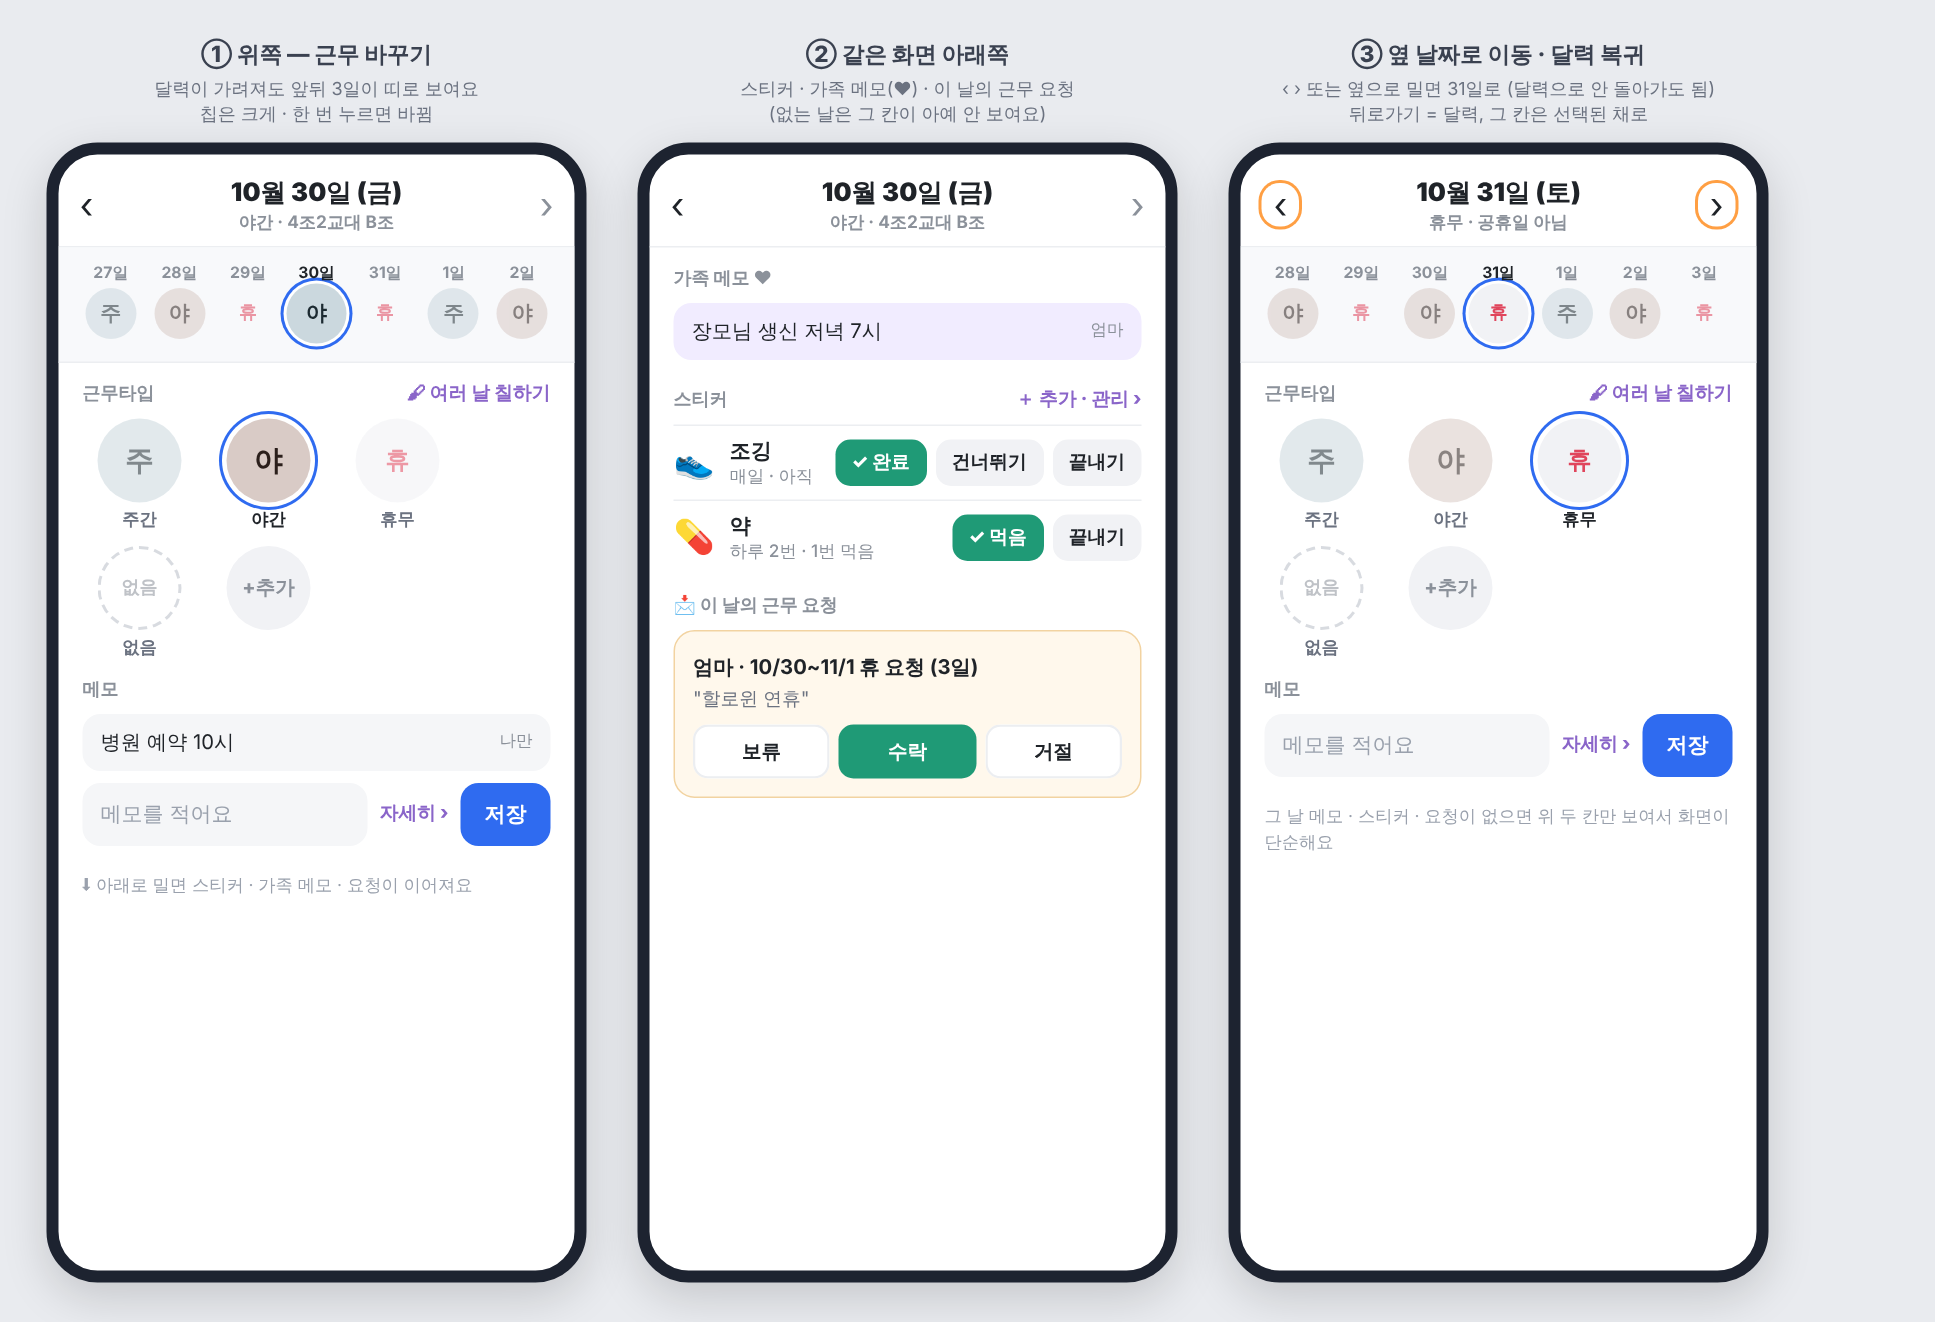
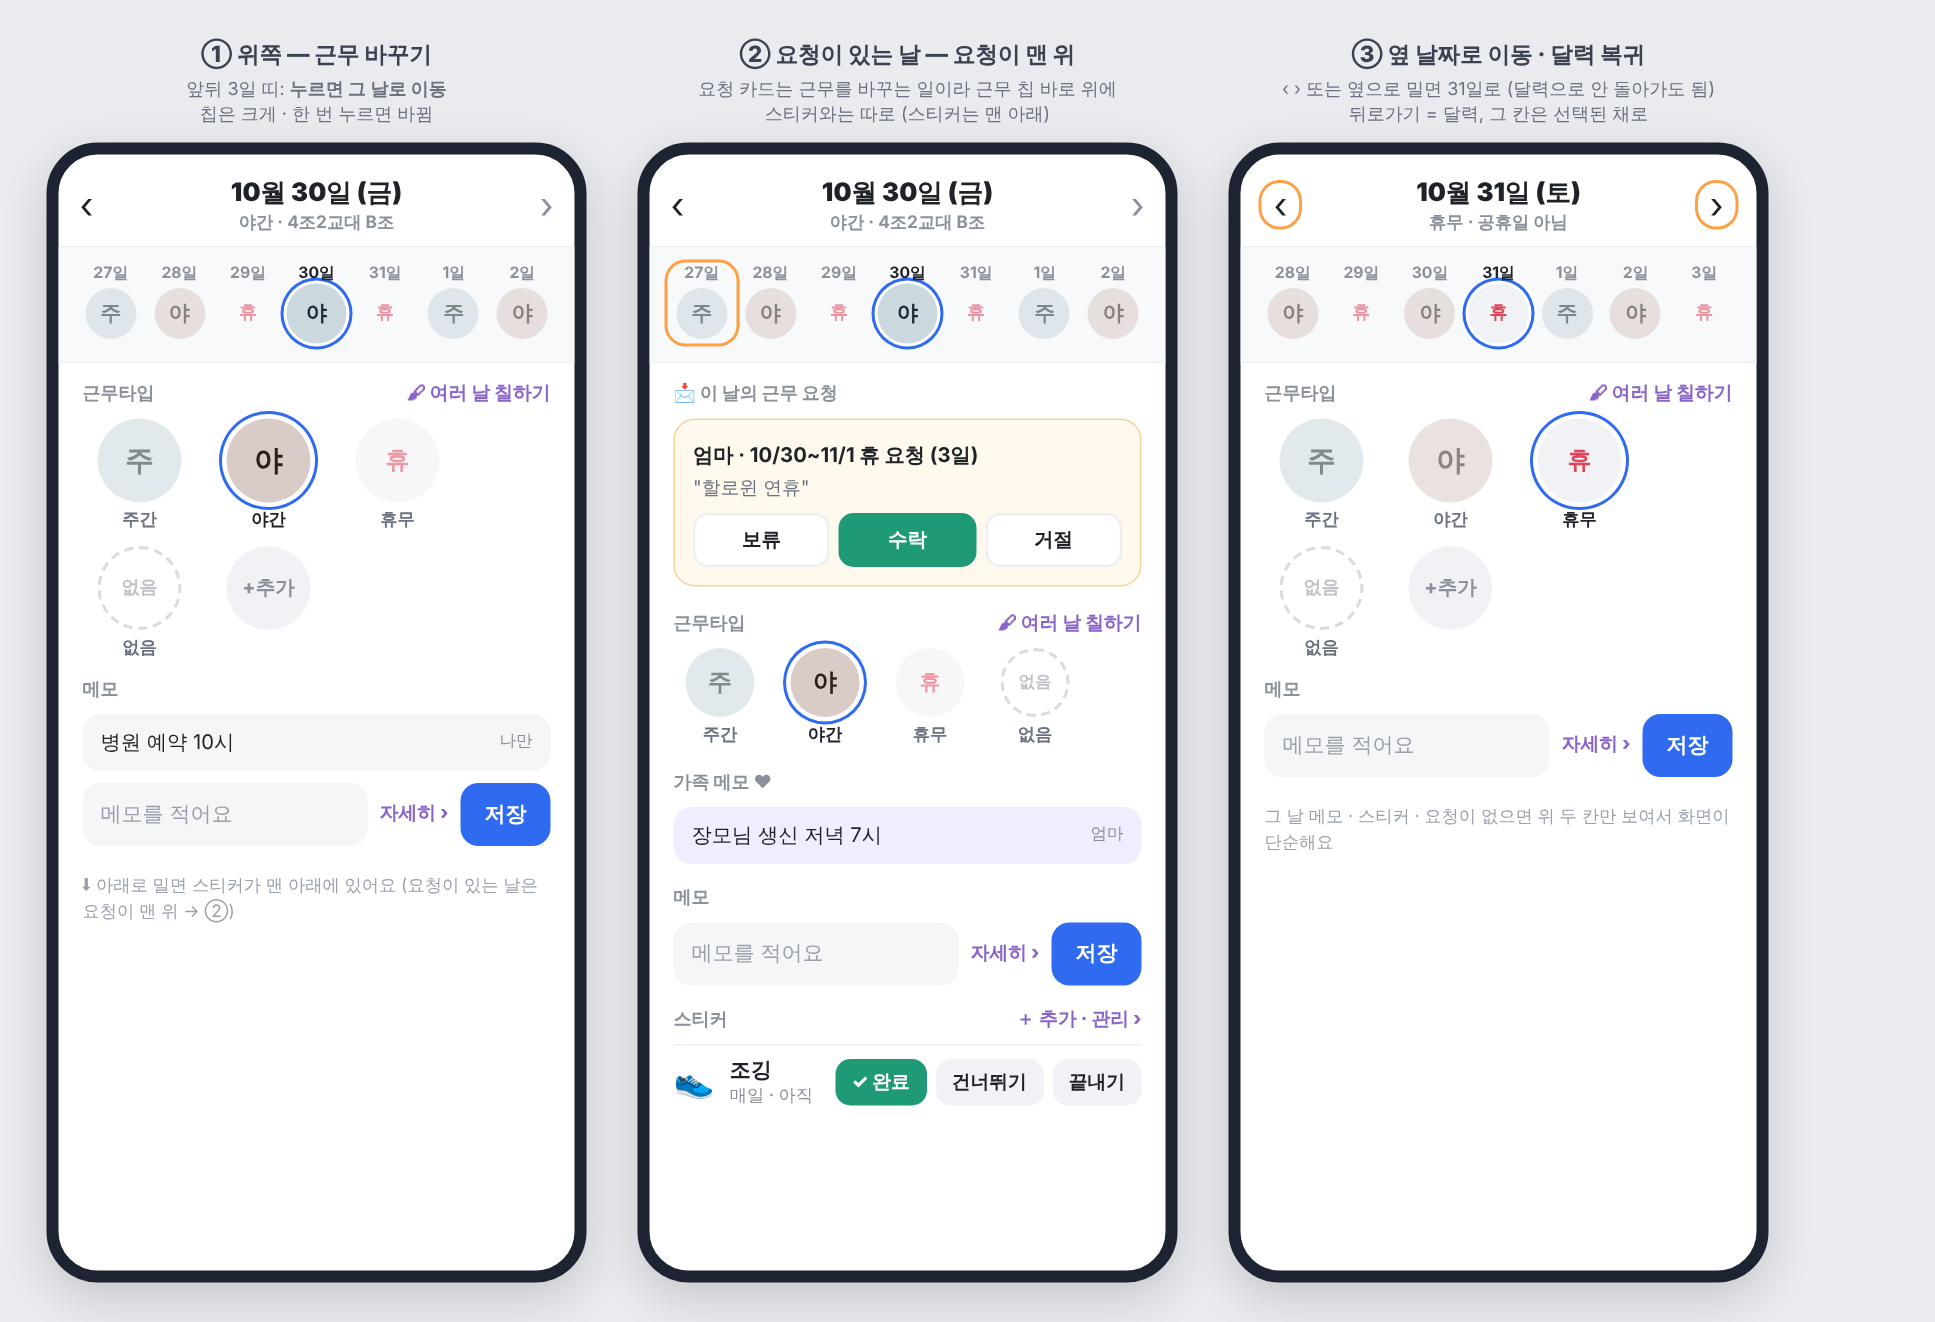
시안 수정: 날짜 전체 화면 — 띠 누르면 이동, 요청 카드 맨 위
Claude-Session: https://claude.ai/code/session_01DP2NyZv5qNdwYSJLeYP8U7

diff --git a/design/ui-day-full.html b/design/ui-day-full.html
@@ -46,7 +46,7 @@ body{font-family:-apple-system,"Apple SD Gothic Neo","Noto Sans KR",sans-serif;b
 .cap2{position:absolute;right:10px;top:56px;background:#ff9f43;color:#fff;font-size:11px;font-weight:800;padding:3px 8px;border-radius:9px}
 </style></head><body>
 
-<div class="col"><div class="cap">① 위쪽 — 근무 바꾸기</div><div class="sub">달력이 가려져도 앞뒤 3일이 띠로 보여요<br>칩은 크게 · 한 번 누르면 바뀜</div>
+<div class="col"><div class="cap">① 위쪽 — 근무 바꾸기</div><div class="sub">앞뒤 3일 띠: <b>누르면 그 날로 이동</b><br>칩은 크게 · 한 번 누르면 바뀜</div>
 <div class="ph">
  <div class="top"><span class="b">‹</span><div class="t">10월 30일 (금)<small>야간 · 4조2교대 B조</small></div><span class="n">›</span></div>
  <div class="strip">
@@ -64,21 +64,30 @@ body{font-family:-apple-system,"Apple SD Gothic Neo","Noto Sans KR",sans-serif;b
   <div class="memo">병원 예약 10시 <small>나만</small></div>
   <div class="row"><div class="inp">메모를 적어요</div><div class="more">자세히 ›</div><div class="btn">저장</div></div>
  </div>
- <div class="note">⬇ 아래로 밀면 스티커 · 가족 메모 · 요청이 이어져요</div>
+ <div class="note">⬇ 아래로 밀면 스티커가 맨 아래에 있어요 (요청이 있는 날은 요청이 맨 위 → ②)</div>
 </div></div>
 
-<div class="col"><div class="cap">② 같은 화면 아래쪽</div><div class="sub">스티커 · 가족 메모(♥) · 이 날의 근무 요청<br>(없는 날은 그 칸이 아예 안 보여요)</div>
+<div class="col"><div class="cap">② 요청이 있는 날 — 요청이 맨 위</div><div class="sub">요청 카드는 근무를 바꾸는 일이라 근무 칩 바로 위에<br>스티커와는 따로 (스티커는 맨 아래)</div>
 <div class="ph">
  <div class="top"><span class="b">‹</span><div class="t">10월 30일 (금)<small>야간 · 4조2교대 B조</small></div><span class="n">›</span></div>
- <div class="sec"><div class="lbl">가족 메모 ♥</div>
-  <div class="memo fam">장모님 생신 저녁 7시 <small>엄마</small></div>
+ <div class="strip">
+  <div class="sd hl">27일<div class="c d">주</div></div><div class="sd">28일<div class="c n">야</div></div><div class="sd">29일<div class="c r">휴</div></div>
+  <div class="sd me">30일<div class="c d">야</div></div>
+  <div class="sd">31일<div class="c r">휴</div></div><div class="sd">1일<div class="c d">주</div></div><div class="sd">2일<div class="c n">야</div></div>
  </div>
- <div class="sec" style="padding-top:0"><div class="lbl">스티커 <a>＋ 추가 · 관리 ›</a></div>
+ <div class="sec" style="padding-bottom:4px"><div class="lbl">📩 이 날의 근무 요청</div>
+  <div class="req" style="margin-bottom:0"><b>엄마 · 10/30~11/1 휴 요청 (3일)</b><p>"할로윈 연휴"</p><div class="g"><span>보류</span><span class="y">수락</span><span>거절</span></div></div>
+ </div>
+ <div class="sec" style="padding-bottom:4px"><div class="lbl">근무타입 <a>🖌 여러 날 칠하기</a></div>
+  <div class="chips" style="gap:8px">
+   <div class="ch" style="width:62px"><div class="c d" style="width:46px;height:46px;font-size:16px">주</div>주간</div><div class="ch on" style="width:62px"><div class="c n" style="width:46px;height:46px;font-size:16px">야</div>야간</div><div class="ch" style="width:62px"><div class="c r" style="width:46px;height:46px;font-size:14px">휴</div>휴무</div>
+   <div class="ch" style="width:62px"><div class="c x" style="width:46px;height:46px;font-size:11px">없음</div>없음</div>
+  </div>
+ </div>
+ <div class="sec" style="padding-bottom:4px"><div class="lbl">가족 메모 ♥</div><div class="memo fam">장모님 생신 저녁 7시 <small>엄마</small></div></div>
+ <div class="sec" style="padding-top:4px"><div class="lbl">메모</div><div class="row" style="margin-top:0"><div class="inp">메모를 적어요</div><div class="more">자세히 ›</div><div class="btn">저장</div></div></div>
+ <div class="sec" style="padding-top:2px"><div class="lbl">스티커 <a>＋ 추가 · 관리 ›</a></div>
   <div class="stk"><span style="font-size:22px">👟</span><div>조깅<small>매일 · 아직</small></div><div class="g"><span class="ok">✓ 완료</span><span>건너뛰기</span><span>끝내기</span></div></div>
-  <div class="stk"><span style="font-size:22px">💊</span><div>약<small>하루 2번 · 1번 먹음</small></div><div class="g"><span class="ok">✓ 먹음</span><span>끝내기</span></div></div>
- </div>
- <div class="sec" style="padding-top:0"><div class="lbl">📩 이 날의 근무 요청</div>
-  <div class="req"><b>엄마 · 10/30~11/1 휴 요청 (3일)</b><p>"할로윈 연휴"</p><div class="g"><span>보류</span><span class="y">수락</span><span>거절</span></div></div>
  </div>
 </div></div>
 

diff --git a/docs/TODO.md b/docs/TODO.md
@@ -867,3 +867,4 @@
 - [ ] **메모 · 근무 바꿀 때 전체 화면으로 (사용자 제안, 판단 중)**: 제 의견 — 메모는 이미 정한 "자세히 ›" 전체 화면(시안 design/ui-memo-full.png)으로 해결. 근무 바꾸기는 지금 날짜 창에서 칩 한 번 누르면 끝이고(달력이 뒤에 보여 앞뒤 근무를 보며 고름) 전체 화면으로 바꾸면 한 단계가 늘어 불편 → 그대로 두기 추천. 대신 "메모 입력칸을 누르면 날짜 창이 전체 높이로 펼쳐짐"(키보드에 가리는 문제도 해결)은 작게 가능. 사용자가 무엇이 불편한지(좁다 · 키보드가 가린다 · 글이 안 보인다) 확인 필요
   · 정정(사용자): "30일 같은 아래쪽 날짜는 어차피 날짜 창에 달력이 가려서 못 보고 근무를 바꿈 → 전체 화면이 낫겠다" — 맞는 지적이라 **날짜 창을 전체 화면으로 바꾸기로 방향 수정**. 앞뒤 근무를 못 보는 단점은 전체 화면 위쪽에 **앞뒤 3일 작은 띠**(어제 · 오늘 · 내일 … 근무 동그라미)와 **‹ ›(옆 날짜 이동 · 옆으로 밀기)** 를 넣어 해결. 구성: 위 ‹ 날짜 › · 근무 띠 · 근무타입 칩(크게) · 칠하기 · 메모(자세히 · 색 · 할 일 · 시간) · 스티커 · 가족 메모 · 요청 카드. 뒤로가기 = 달력으로(그 칸 선택 표시 유지). 시안 먼저(design/ui-day-full.png)
   · 시안 그림: design/ui-day-full.png (① 위쪽: 앞뒤 3일 띠 + 큰 근무 칩 + 메모 ② 아래쪽: 가족 메모 · 스티커([완료][건너뛰기][끝내기]) · 요청 카드 ③ 옆 날짜 이동 ‹ ›) — 확정 대기. 메모/스티커/가족 메모/요청이 없는 날은 그 칸이 안 보여 위 두 칸만
+  · 수정(사용자): ① 앞뒤 3일 띠를 누르면 그 날로 이동(‹ › 와 같은 동작) ② 요청 카드는 스티커 쪽이 아니라 **맨 위(띠 바로 아래, 근무 칩 위)** — 수락하면 근무가 바뀌는 일이라 근무 칩과 가까이. 순서: 띠 → 요청(있는 날만) → 근무 칩 → 가족 메모(있는 날만) → 메모 → 스티커(맨 아래). 시안 갱신: design/ui-day-full.png
